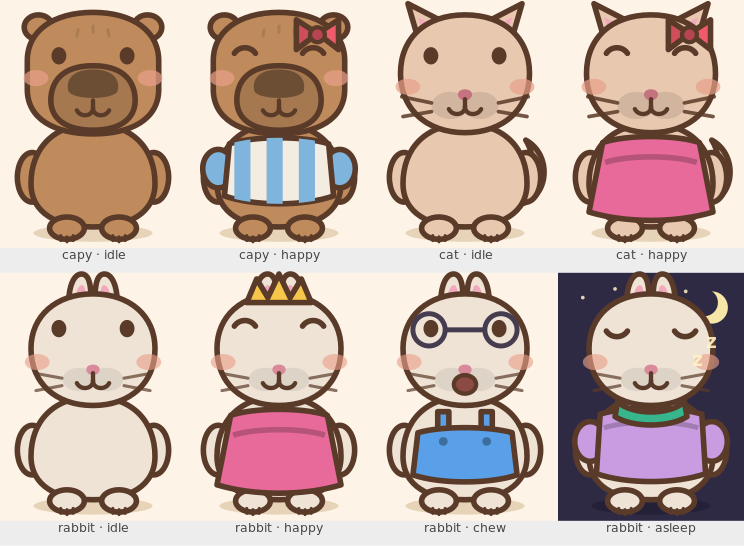
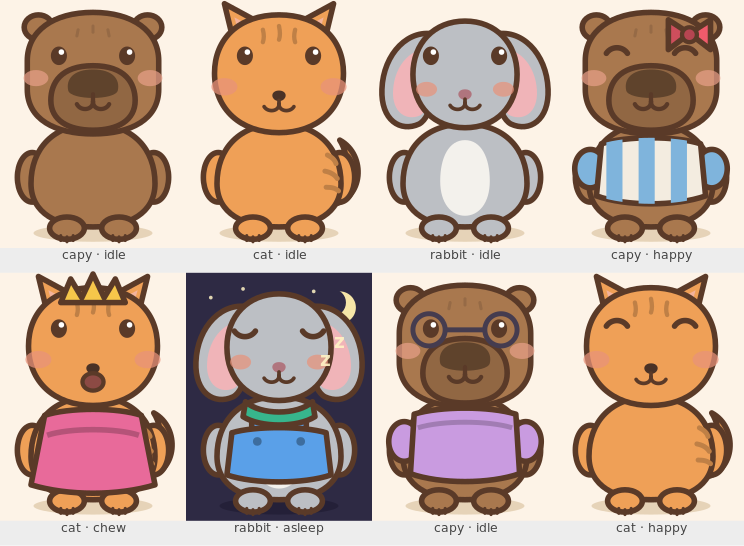
Rediseñar los tres amigos siguiendo la referencia: orejas caidas, rayas de atigrado y ojos con brillo

diff --git a/docs/pets.js b/docs/pets.js
@@ -12,9 +12,9 @@
 const PET_OUTLINE = '#5A3A28';
 
 const PET_FURS = {
-  capy:   ['#C08B5C', '#A9754A', '#D8AE84', '#8C6242'],
-  cat:    ['#E8C9B0', '#F2DCC6', '#D6BBA6', '#C9A98E'],
-  rabbit: ['#EFE3D6', '#D8CFC4', '#F4D8DE', '#BFAE9E']
+  capy:   ['#A9784E', '#8C6242', '#C79A6C', '#D8B48C'],
+  cat:    ['#EFA057', '#E8C9B0', '#C9A98E', '#F2C27A'],
+  rabbit: ['#BCBFC4', '#9A9DA3', '#E8E4DC', '#D6BBC4']
 };
 
 const PET_NAMES = { capy: 'Capi', cat: 'Michi', rabbit: 'Coneja' };
@@ -135,8 +135,12 @@ function petEyes(mood) {
            '<path d="M188 100 C196 112 214 112 222 100" fill="none" stroke="' + PET_OUTLINE +
              '" stroke-width="9" stroke-linecap="round"/>';
   }
-  return '<ellipse cx="95" cy="96" rx="12" ry="14" fill="' + PET_OUTLINE + '"/>' +
-         '<ellipse cx="205" cy="96" rx="12" ry="14" fill="' + PET_OUTLINE + '"/>';
+  // A single off-centre highlight is what makes a flat dark oval read as an
+  // eye rather than a hole.
+  return '<ellipse cx="95" cy="96" rx="13" ry="15" fill="' + PET_OUTLINE + '"/>' +
+         '<ellipse cx="205" cy="96" rx="13" ry="15" fill="' + PET_OUTLINE + '"/>' +
+         '<circle cx="99" cy="90" r="4.5" fill="#fff"/>' +
+         '<circle cx="209" cy="90" r="4.5" fill="#fff"/>';
 }
 
 function petMouth(mood, muzzleY) {
@@ -171,54 +175,80 @@ function capyHead(fur, mood) {
   s += '<ellipse cx="242" cy="132" rx="20" ry="13" fill="#E8A08A" opacity=".7"/>';
   s += '<g stroke="' + muzzle + '" stroke-width="5" stroke-linecap="round" opacity=".8">' +
        '<path d="M126 54 L124 64"/><path d="M150 48 L150 58"/><path d="M174 54 L176 64"/></g>';
-  s += petEyes(mood) + petMouth(mood, 168);
+  // Nostrils sit high on the muzzle, which is what makes it read as a snout
+  // seen head-on rather than as a big chin.
+  s += '<g fill="' + nose + '">' +
+       '<path d="M132 132 C138 128 142 132 140 138 C136 142 130 138 132 132 Z"/>' +
+       '<path d="M168 132 C162 128 158 132 160 138 C164 142 170 138 168 132 Z"/></g>';
+  s += petEyes(mood) + petMouth(mood, 158);
   return s;
 }
 
+/* Cat. Tabby stripes on the forehead and a plain w-mouth — no whiskers, they
+   only add clutter at thumbnail size. */
 function catHead(fur, mood) {
-  const muzzle = petShade(fur, 0.9);
+  const stripe = petShade(fur, 0.8);
 
-  let s = petPath('M76 74 L58 12 L128 48 Z', fur) + petPath('M224 74 L242 12 L172 48 Z', fur);
-  s += '<path d="M86 68 L74 34 L112 52 Z" fill="#F2A9BC"/>' +
-       '<path d="M214 68 L226 34 L188 52 Z" fill="#F2A9BC"/>';
+  let s = petPath('M78 78 L62 12 L132 50 Z', fur) + petPath('M222 78 L238 12 L168 50 Z', fur);
+  s += '<path d="M88 70 L78 34 L116 54 Z" fill="#F3B39C"/>' +
+       '<path d="M212 70 L222 34 L184 54 Z" fill="#F3B39C"/>';
   s += petPath('M150 30 C214 30 254 68 254 124 C254 182 212 220 150 220 ' +
                'C88 220 46 182 46 124 C46 68 86 30 150 30 Z', fur);
-  s += '<ellipse cx="126" cy="176" rx="30" ry="22" fill="' + muzzle + '"/>' +
-       '<ellipse cx="174" cy="176" rx="30" ry="22" fill="' + muzzle + '"/>';
-  s += '<path d="M150 150 C161 150 165 159 158 165 C154 169 146 169 142 165 ' +
-       'C135 159 139 150 150 150 Z" fill="#C4737F"/>';
-  s += '<ellipse cx="58" cy="146" rx="20" ry="13" fill="#E8A08A" opacity=".7"/>';
-  s += '<ellipse cx="242" cy="146" rx="20" ry="13" fill="#E8A08A" opacity=".7"/>';
-  s += '<g stroke="' + PET_OUTLINE + '" stroke-width="6" stroke-linecap="round" opacity=".85">' +
-       '<path d="M96 172 L48 162"/><path d="M96 186 L50 194"/>' +
-       '<path d="M204 172 L252 162"/><path d="M204 186 L250 194"/></g>';
-  s += petEyes(mood) + petMouth(mood, 166);
+  s += '<g stroke="' + stripe + '" stroke-width="7" stroke-linecap="round" fill="none">' +
+       '<path d="M124 54 C126 62 126 68 124 74"/>' +
+       '<path d="M150 48 C152 58 152 64 150 70"/>' +
+       '<path d="M176 54 C174 62 174 68 176 74"/></g>';
+  s += '<ellipse cx="62" cy="146" rx="21" ry="14" fill="#E8927A" opacity=".72"/>';
+  s += '<ellipse cx="238" cy="146" rx="21" ry="14" fill="#E8927A" opacity=".72"/>';
+  s += petEyes(mood) + petSnout(mood, 152, '#4A3226');
   return s;
 }
 
-/* Rabbit. The ears carry the whole read, so they are tall, tilted slightly
-   outward, and drawn behind the skull — a rabbit with short ears is a mouse. */
+/* Rabbit with lop ears: they hang down the sides of the head instead of
+   standing up. Longer to draw than upright ears, but unmistakable, and it
+   stops the silhouette colliding with the cat's. */
 function rabbitHead(fur, mood) {
-  const muzzle = petShade(fur, 0.93);
-  const inner = '#F2A9BC';
+  const inner = '#F0B4B8';
 
-  let s = petPath('M114 96 C104 34 118 6 133 8 C148 10 150 42 142 100 Z', fur) +
-          petPath('M186 96 C196 34 182 6 167 8 C152 10 150 42 158 100 Z', fur);
-  s += '<path d="M122 88 C116 44 126 24 133 26 C140 28 140 52 134 92 Z" fill="' + inner + '"/>' +
-       '<path d="M178 88 C184 44 174 24 167 26 C160 28 160 52 166 92 Z" fill="' + inner + '"/>';
-  s += petPath('M150 40 C210 40 250 76 250 128 C250 184 210 220 150 220 ' +
-               'C90 220 50 184 50 128 C50 76 90 40 150 40 Z', fur);
-  s += '<ellipse cx="128" cy="178" rx="27" ry="19" fill="' + muzzle + '"/>' +
-       '<ellipse cx="172" cy="178" rx="27" ry="19" fill="' + muzzle + '"/>';
-  s += '<path d="M150 154 C160 154 164 162 158 168 C154 172 146 172 142 168 ' +
-       'C136 162 140 154 150 154 Z" fill="#D9899A"/>';
-  s += '<ellipse cx="60" cy="150" rx="20" ry="13" fill="#E8A08A" opacity=".62"/>';
-  s += '<ellipse cx="240" cy="150" rx="20" ry="13" fill="#E8A08A" opacity=".62"/>';
-  s += '<g stroke="' + PET_OUTLINE + '" stroke-width="5" stroke-linecap="round" opacity=".7">' +
-       '<path d="M100 176 L56 168"/><path d="M100 188 L58 196"/>' +
-       '<path d="M200 176 L244 168"/><path d="M200 188 L242 196"/></g>';
-  s += petEyes(mood) + petMouth(mood, 168);
+  // The ears have to hang well outside the skull or they vanish behind it —
+  // the head is drawn on top of them.
+  let s = petPath('M104 62 C60 50 18 92 16 150 C14 200 46 220 76 206 ' +
+                  'C98 194 102 142 104 102 Z', fur) +
+          petPath('M196 62 C240 50 282 92 284 150 C286 200 254 220 224 206 ' +
+                  'C202 194 198 142 196 102 Z', fur);
+  s += '<path d="M100 86 C66 78 36 110 34 152 C32 188 56 202 78 192 ' +
+       'C94 182 98 142 100 110 Z" fill="' + inner + '"/>' +
+       '<path d="M200 86 C234 78 264 110 266 152 C268 188 244 202 222 192 ' +
+       'C206 182 202 142 200 110 Z" fill="' + inner + '"/>';
+  s += petPath('M150 40 C200 40 234 76 234 126 C234 178 200 212 150 212 ' +
+               'C100 212 66 178 66 126 C66 76 100 40 150 40 Z', fur);
+  s += '<ellipse cx="88" cy="150" rx="17" ry="12" fill="#E8927A" opacity=".7"/>';
+  s += '<ellipse cx="212" cy="150" rx="17" ry="12" fill="#E8927A" opacity=".7"/>';
+  s += petEyes(mood) + petSnout(mood, 150, '#B0757E');
   return s;
+}
+
+/* Small nose plus a w-shaped mouth, for the two round-faced friends. The
+   capybara does not use this: its whole muzzle is the feature. */
+function petSnout(mood, y, noseColor) {
+  const nose = '<path d="M150 ' + y + ' C160 ' + y + ' 164 ' + (y + 8) + ' 158 ' + (y + 14) +
+               ' C154 ' + (y + 18) + ' 146 ' + (y + 18) + ' 142 ' + (y + 14) +
+               ' C136 ' + (y + 8) + ' 140 ' + y + ' 150 ' + y + ' Z" fill="' + noseColor + '"/>';
+
+  if (mood === 'chew') {
+    // Keep the nose: without it the open mouth floats on a blank face.
+    return nose + '<ellipse cx="150" cy="' + (y + 30) + '" rx="17" ry="14" fill="#8C4A44" stroke="' +
+           PET_OUTLINE + '" stroke-width="7"/>';
+  }
+  return '<path d="M150 ' + y + ' C160 ' + y + ' 164 ' + (y + 8) + ' 158 ' + (y + 14) +
+         ' C154 ' + (y + 18) + ' 146 ' + (y + 18) + ' 142 ' + (y + 14) +
+         ' C136 ' + (y + 8) + ' 140 ' + y + ' 150 ' + y + ' Z" fill="' + noseColor + '"/>' +
+         '<path d="M150 ' + (y + 16) + ' L150 ' + (y + 22) + '" stroke="' + PET_OUTLINE +
+         '" stroke-width="6" stroke-linecap="round"/>' +
+         '<path d="M150 ' + (y + 22) + ' C150 ' + (y + 34) + ' 132 ' + (y + 36) + ' 126 ' + (y + 26) +
+         '" fill="none" stroke="' + PET_OUTLINE + '" stroke-width="6" stroke-linecap="round"/>' +
+         '<path d="M150 ' + (y + 22) + ' C150 ' + (y + 34) + ' 168 ' + (y + 36) + ' 174 ' + (y + 26) +
+         '" fill="none" stroke="' + PET_OUTLINE + '" stroke-width="6" stroke-linecap="round"/>';
 }
 
 const PET_HEADS = { capy: capyHead, cat: catHead, rabbit: rabbitHead };
@@ -251,6 +281,18 @@ function petArt(species, fur, mood, outfitID, accessories, night) {
   s += petEllipse(52, 286, 24, 40, fur) + petEllipse(248, 286, 24, 40, fur);
   s += petPath('M150 200 C214 200 250 240 250 296 C250 344 208 366 150 366 ' +
                'C92 366 50 344 50 296 C50 240 86 200 150 200 Z', fur);
+
+  if (species === 'cat') {
+    s += '<g stroke="' + petShade(fur, 0.8) + '" stroke-width="8" stroke-linecap="round" fill="none">' +
+         '<path d="M228 250 C236 254 240 258 242 264"/>' +
+         '<path d="M224 276 C234 278 240 282 244 288"/>' +
+         '<path d="M226 302 C236 302 242 304 246 308"/></g>';
+  }
+  if (species === 'rabbit') {
+    s += '<path d="M150 226 C176 226 190 254 190 292 C190 328 172 348 150 348 ' +
+         'C128 348 110 328 110 292 C110 254 124 226 150 226 Z" fill="#F3F1EC"/>';
+  }
+
   s += petEllipse(108, 368, 28, 18, fur) + petEllipse(192, 368, 28, 18, fur);
 
   if (outfit.draw) s += outfit.draw(outfit.color);
